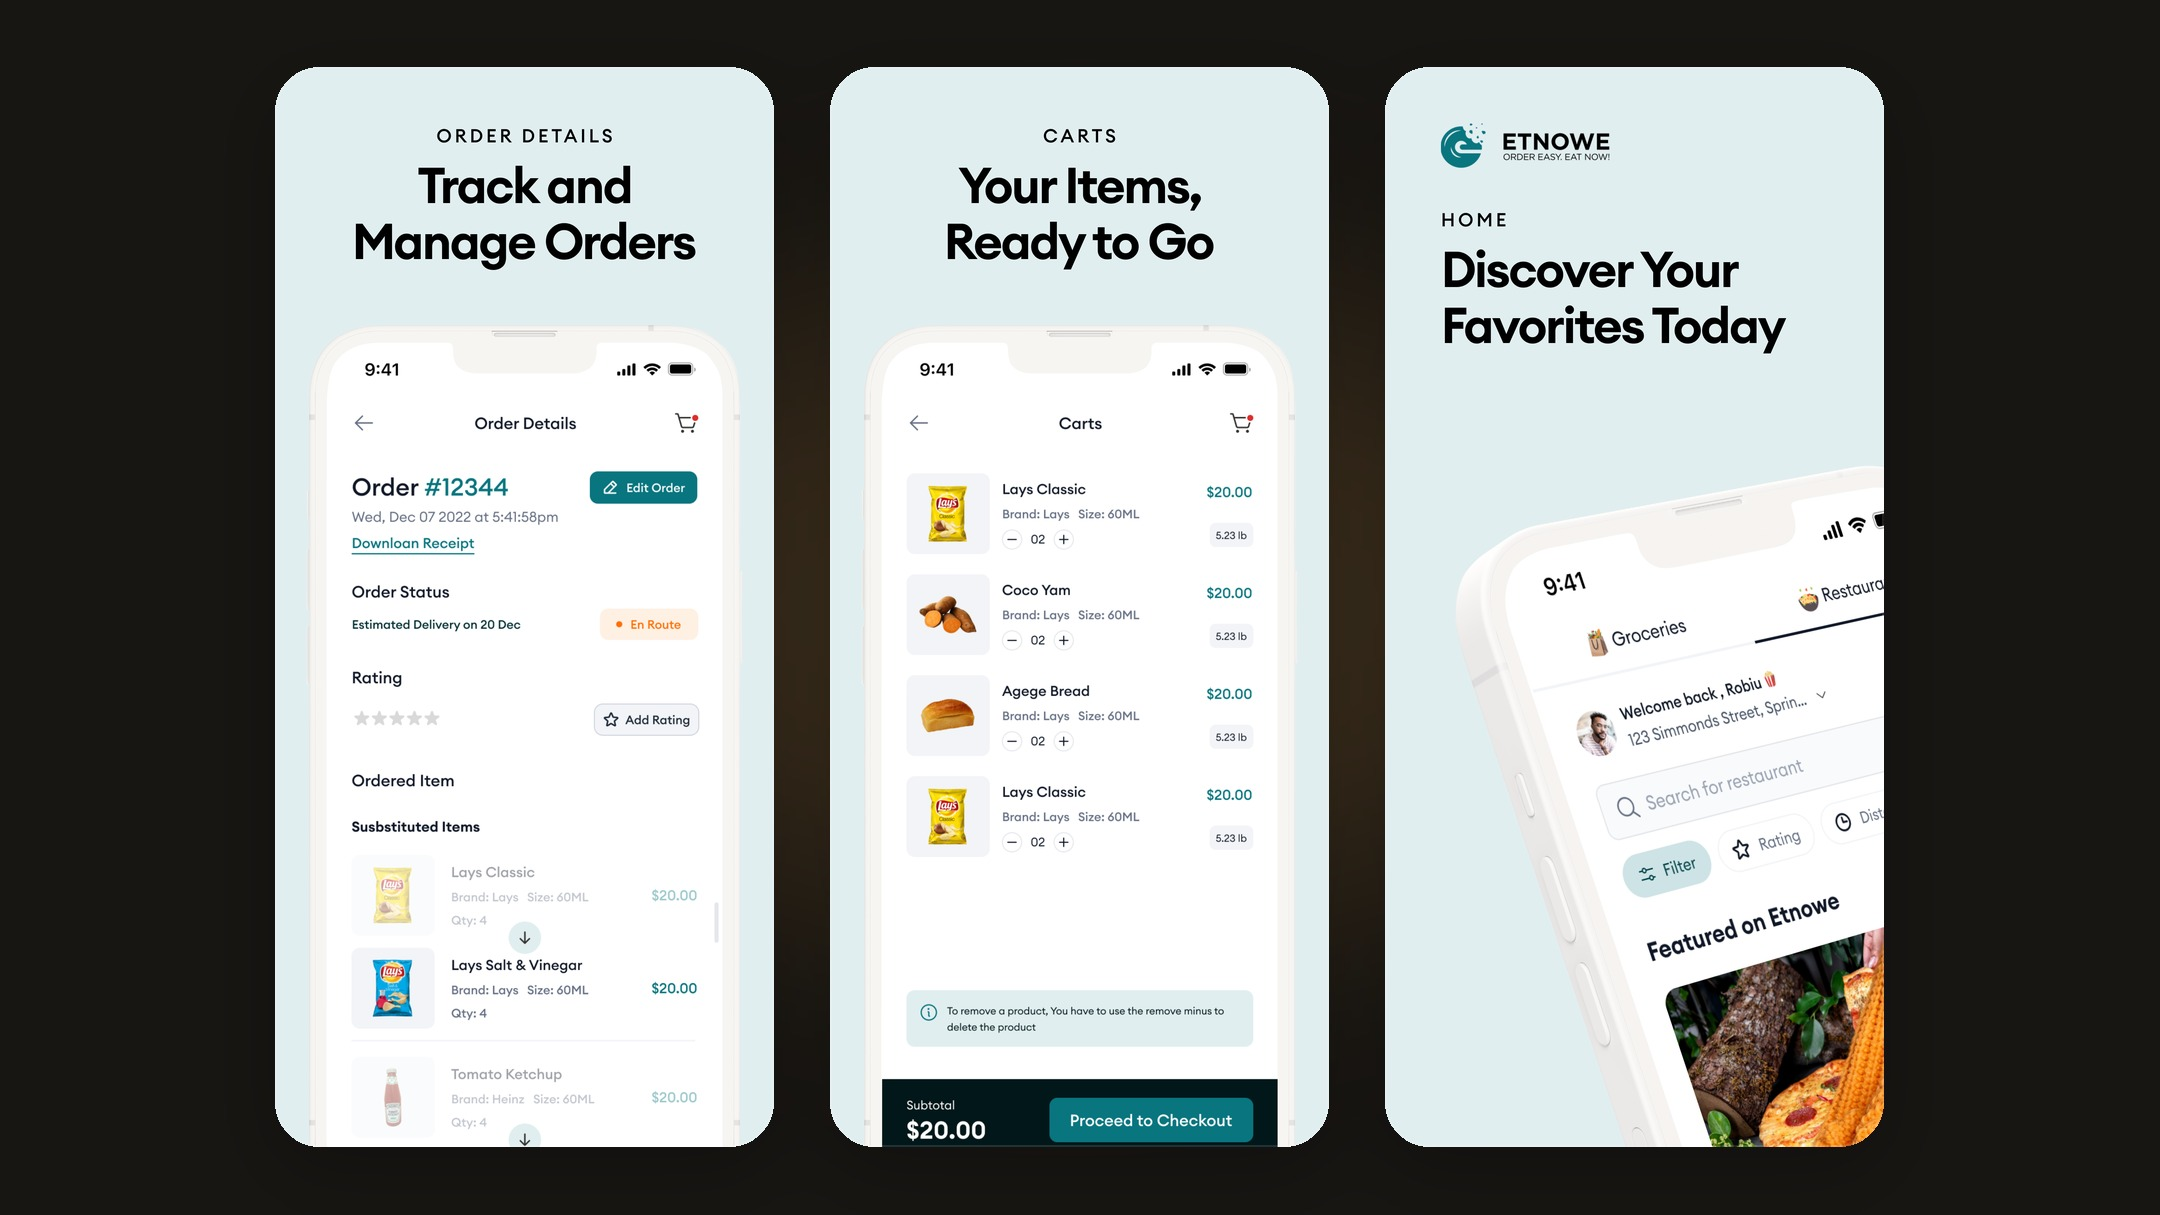
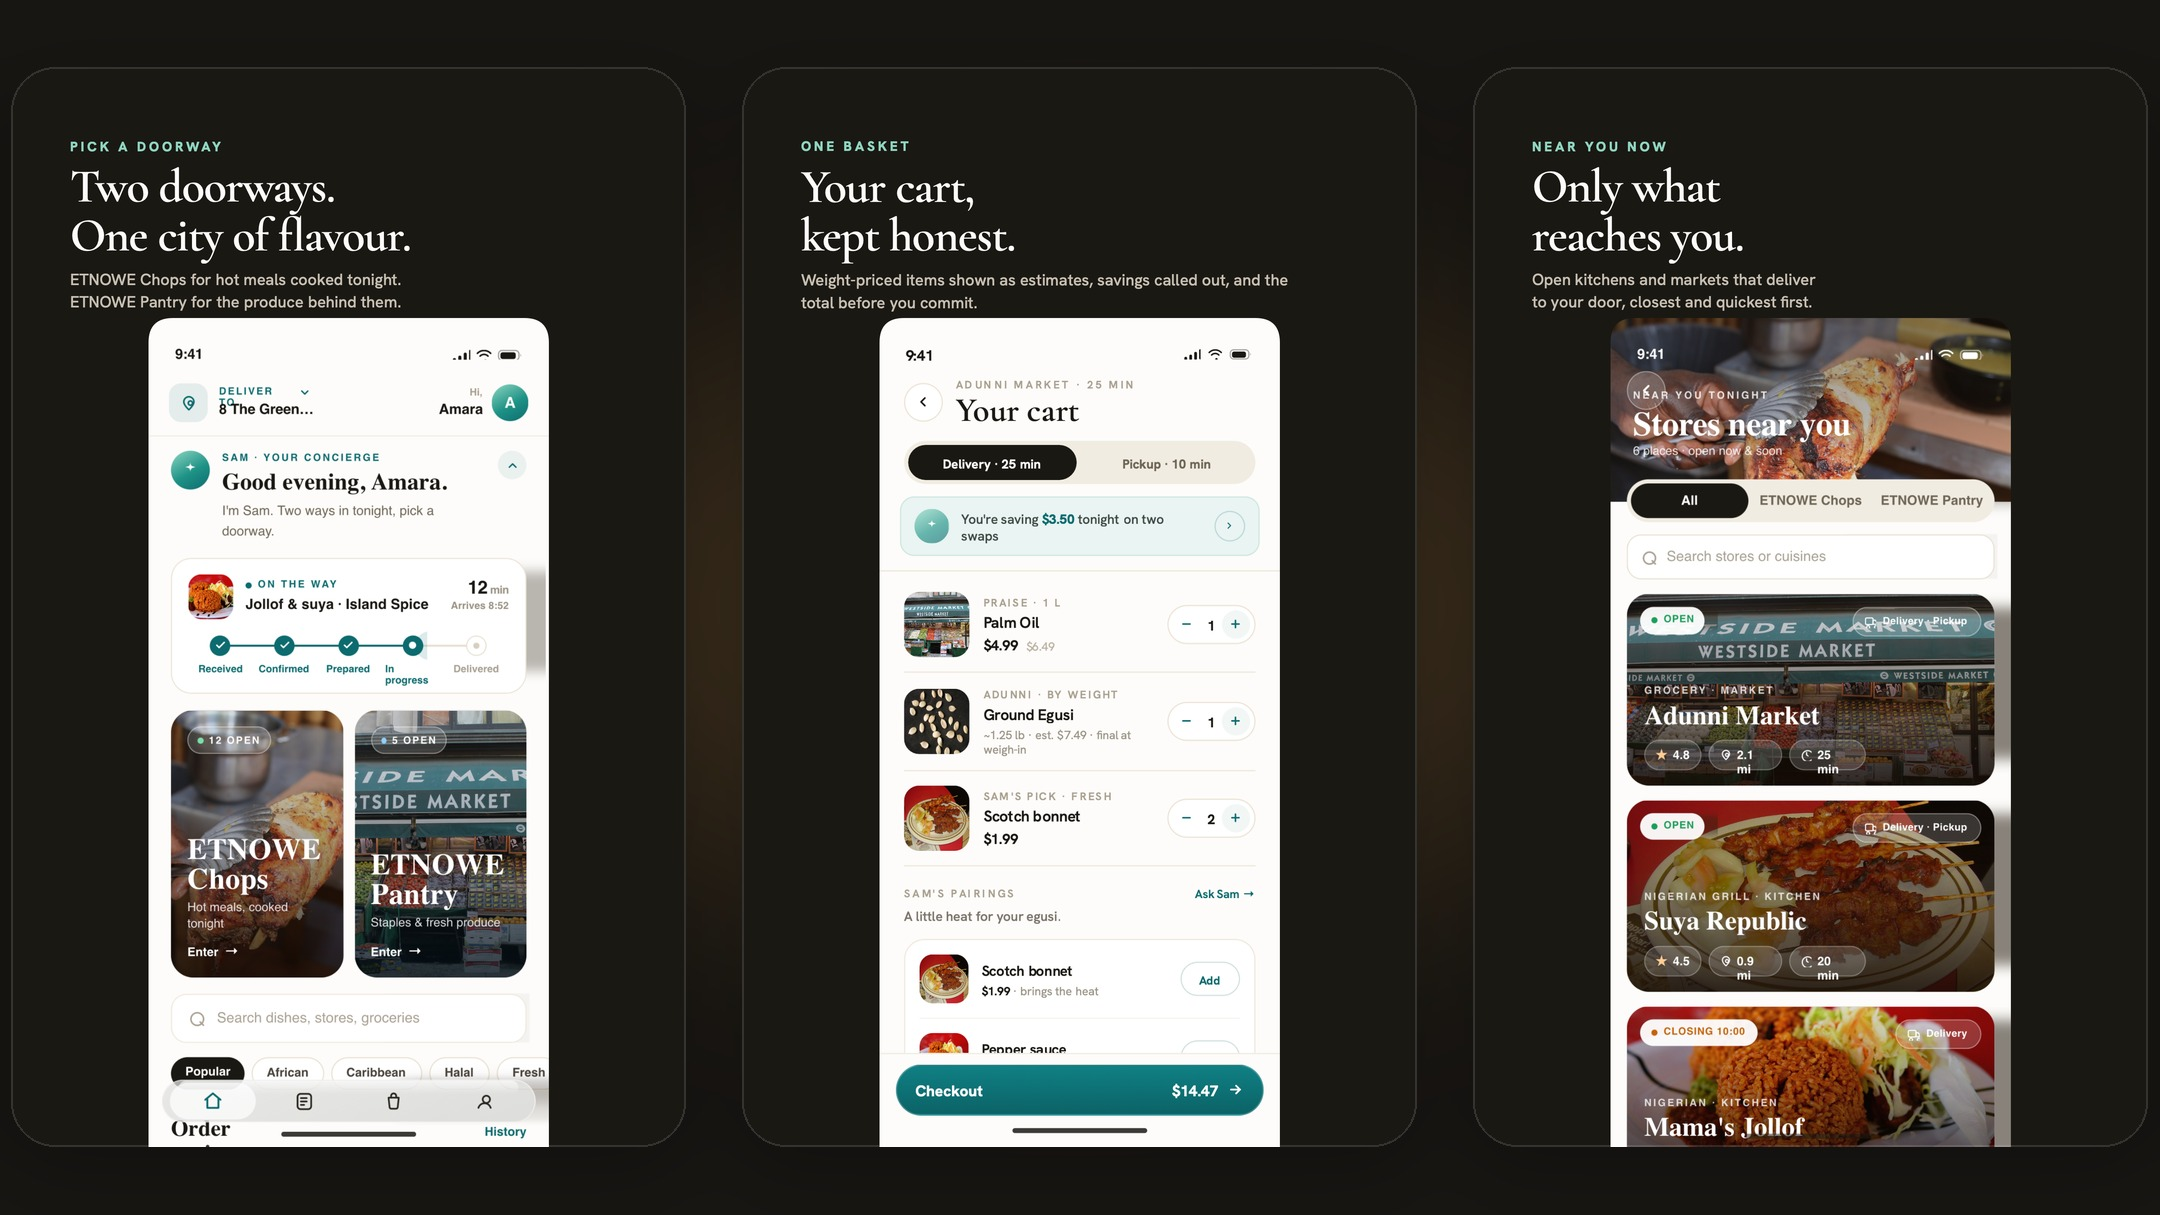
Add full-screen lightbox gallery for individual project screenshots
Project cards keep the composed 3-screen board as a thumbnail, but it's
now clickable and opens a full-screen lightbox carousel over the
individual screenshots (arrow keys, dots, click-outside to close).
Re-split the merged boards back into separate images for Etnowe, Sedl,
Buxe, Buxe Driver, Branch Locator, and Spend & Save, and regenerated
Etnowe's board since its Play Store listing had changed since the
original screenshots were captured.

diff --git a/components/ImageLightbox.tsx b/components/ImageLightbox.tsx
@@ -1,0 +1,143 @@
+"use client";
+
+import { useEffect, useState } from "react";
+import { createPortal } from "react-dom";
+import { AnimatePresence, motion } from "motion/react";
+import { X, ChevronLeft, ChevronRight } from "lucide-react";
+
+export default function ImageLightbox({
+  images,
+  alt,
+  open,
+  onClose,
+}: {
+  images: string[];
+  alt: string;
+  open: boolean;
+  onClose: () => void;
+}) {
+  const [index, setIndex] = useState(0);
+  const [mounted, setMounted] = useState(false);
+
+  useEffect(() => {
+    setMounted(true);
+  }, []);
+
+  useEffect(() => {
+    if (open) setIndex(0);
+  }, [open]);
+
+  useEffect(() => {
+    if (!open) return;
+
+    document.body.style.overflow = "hidden";
+
+    const onKey = (e: KeyboardEvent) => {
+      if (e.key === "Escape") onClose();
+      if (e.key === "ArrowLeft") {
+        setIndex((i) => (i - 1 + images.length) % images.length);
+      }
+      if (e.key === "ArrowRight") {
+        setIndex((i) => (i + 1) % images.length);
+      }
+    };
+    window.addEventListener("keydown", onKey);
+
+    return () => {
+      document.body.style.overflow = "";
+      window.removeEventListener("keydown", onKey);
+    };
+  }, [open, images.length, onClose]);
+
+  if (!mounted) return null;
+
+  return createPortal(
+    <AnimatePresence>
+      {open && (
+        <motion.div
+          initial={{ opacity: 0 }}
+          animate={{ opacity: 1 }}
+          exit={{ opacity: 0 }}
+          transition={{ duration: 0.2 }}
+          onClick={onClose}
+          className="fixed inset-0 z-[60] flex items-center justify-center bg-black/95"
+        >
+          <button
+            type="button"
+            onClick={(e) => {
+              e.stopPropagation();
+              onClose();
+            }}
+            aria-label="Close"
+            className="absolute right-4 top-4 z-10 flex h-10 w-10 items-center justify-center rounded-full bg-bg-elevated/90 text-text-secondary backdrop-blur-sm transition-colors duration-[var(--duration-fast)] hover:text-accent"
+          >
+            <X size={20} strokeWidth={1.75} />
+          </button>
+
+          {images.length > 1 && (
+            <button
+              type="button"
+              onClick={(e) => {
+                e.stopPropagation();
+                setIndex((i) => (i - 1 + images.length) % images.length);
+              }}
+              aria-label="Previous screenshot"
+              className="absolute left-3 top-1/2 z-10 flex h-10 w-10 -translate-y-1/2 items-center justify-center rounded-full bg-bg-elevated/90 text-text-secondary backdrop-blur-sm transition-colors duration-[var(--duration-fast)] hover:text-accent md:left-6"
+            >
+              <ChevronLeft size={20} strokeWidth={1.75} />
+            </button>
+          )}
+
+          <AnimatePresence mode="wait">
+            {/* eslint-disable-next-line @next/next/no-img-element */}
+            <motion.img
+              key={index}
+              src={images[index]}
+              alt={`${alt} screenshot ${index + 1} of ${images.length}`}
+              initial={{ opacity: 0, scale: 0.98 }}
+              animate={{ opacity: 1, scale: 1 }}
+              exit={{ opacity: 0, scale: 0.98 }}
+              transition={{ duration: 0.18 }}
+              onClick={(e) => e.stopPropagation()}
+              className="h-screen w-screen object-contain"
+            />
+          </AnimatePresence>
+
+          {images.length > 1 && (
+            <button
+              type="button"
+              onClick={(e) => {
+                e.stopPropagation();
+                setIndex((i) => (i + 1) % images.length);
+              }}
+              aria-label="Next screenshot"
+              className="absolute right-3 top-1/2 z-10 flex h-10 w-10 -translate-y-1/2 items-center justify-center rounded-full bg-bg-elevated/90 text-text-secondary backdrop-blur-sm transition-colors duration-[var(--duration-fast)] hover:text-accent md:right-6"
+            >
+              <ChevronRight size={20} strokeWidth={1.75} />
+            </button>
+          )}
+
+          {images.length > 1 && (
+            <div className="absolute bottom-6 left-1/2 flex -translate-x-1/2 gap-2">
+              {images.map((img, i) => (
+                <button
+                  key={img}
+                  type="button"
+                  onClick={(e) => {
+                    e.stopPropagation();
+                    setIndex(i);
+                  }}
+                  aria-label={`Go to screenshot ${i + 1}`}
+                  className={`h-1.5 w-1.5 rounded-full transition-colors duration-[var(--duration-fast)] ${
+                    i === index ? "bg-accent" : "bg-white/40 hover:bg-white/70"
+                  }`}
+                />
+              ))}
+            </div>
+          )}
+        </motion.div>
+      )}
+    </AnimatePresence>,
+    document.body
+  );
+}

diff --git a/content/projects.ts b/content/projects.ts
@@ -14,6 +14,7 @@ export interface Project {
   blurb: string;
   tags: string[];
   image?: string;
+  images?: string[];
   links?: {
     website?: string;
     appStore?: string;
@@ -56,6 +57,11 @@ export const projects: Project[] = [
       "An African & Caribbean grocery and restaurant delivery platform: customer and merchant mobile apps for browsing, ordering, and fulfilling orders on the go. I fixed bugs and built order placement and refund features across the stack.",
     tags: ["React Native"],
     image: "/projects/etnowe.jpg",
+    images: [
+      "/projects/etnowe-1.jpg",
+      "/projects/etnowe-2.jpg",
+      "/projects/etnowe-3.jpg",
+    ],
     links: {
       appStore: "https://apps.apple.com/us/app/etnowe-grocery-delivery/id1531814543",
       playStore:
@@ -118,6 +124,11 @@ export const projects: Project[] = [
       "A ride-hailing app for riders: book trips, track drivers live, pay in-app, and share trip status with trusted contacts. Live on the App Store.",
     tags: ["Expo", "Firebase", "Google Maps"],
     image: "/projects/buxe.jpg",
+    images: [
+      "/projects/buxe-1.jpg",
+      "/projects/buxe-2.jpg",
+      "/projects/buxe-3.jpg",
+    ],
     links: {
       appStore: "https://apps.apple.com/ng/app/buxe/id6749169171",
     },
@@ -133,6 +144,11 @@ export const projects: Project[] = [
       "The driver-side app for Buxe: accepting trips, live navigation, and earnings tracking. Live on the App Store.",
     tags: ["Expo", "Firebase", "Google Maps"],
     image: "/projects/buxe-driver.jpg",
+    images: [
+      "/projects/buxe-driver-1.jpg",
+      "/projects/buxe-driver-2.jpg",
+      "/projects/buxe-driver-3.jpg",
+    ],
     links: {
       appStore: "https://apps.apple.com/ng/app/buxe-driver/id6753883343",
     },
@@ -148,6 +164,11 @@ export const projects: Project[] = [
       "A blockchain-based money transfer app: converts currency to USDC for near-instant, low-fee wallet-to-wallet transfers, with facial recognition and two-factor security. Live on iOS and Android.",
     tags: ["React Native", "Expo", "Firebase"],
     image: "/projects/sedl.jpg",
+    images: [
+      "/projects/sedl-1.jpg",
+      "/projects/sedl-2.jpg",
+      "/projects/sedl-3.jpg",
+    ],
     links: {
       website: "https://sedlapp.com/",
       appStore: "https://apps.apple.com/ng/app/sedl-app/id6744427872",
@@ -194,6 +215,11 @@ export const projects: Project[] = [
       "A branch, ATM, agent, and affluent lounge locator for the Stanbic IBTC mobile app: real-time distance and availability status, with quick actions like scheduling a visit or getting directions.",
     tags: ["React Native", "Google Maps SDK"],
     image: "/projects/branch-locator.jpg",
+    images: [
+      "/projects/branch-locator-1.jpg",
+      "/projects/branch-locator-2.jpg",
+      "/projects/branch-locator-3.jpg",
+    ],
     links: {
       appStore: "https://apps.apple.com/ng/app/stanbic-ibtc-mobile-3-0/id6477922208",
       playStore: "https://play.google.com/store/apps/details?id=com.StanbicMobile",
@@ -210,6 +236,11 @@ export const projects: Project[] = [
       "An automated micro-savings feature for the Stanbic IBTC mobile app: sets aside a percentage of every transaction into a savings balance, with an adjustable rate and full transaction history.",
     tags: ["React Native"],
     image: "/projects/spend-and-save.jpg",
+    images: [
+      "/projects/spend-and-save-1.jpg",
+      "/projects/spend-and-save-2.jpg",
+      "/projects/spend-and-save-3.jpg",
+    ],
     links: {
       appStore: "https://apps.apple.com/ng/app/stanbic-ibtc-mobile-3-0/id6477922208",
       playStore: "https://play.google.com/store/apps/details?id=com.StanbicMobile",

diff --git a/components/ProjectImage.tsx b/components/ProjectImage.tsx
@@ -1,0 +1,55 @@
+"use client";
+
+import { useState } from "react";
+import { Expand } from "lucide-react";
+import ImageLightbox from "./ImageLightbox";
+
+export default function ProjectImage({
+  image,
+  images,
+  alt,
+}: {
+  image?: string;
+  images?: string[];
+  alt: string;
+}) {
+  const [open, setOpen] = useState(false);
+  const clickable = !!images && images.length > 0;
+  const src = image ?? images?.[0];
+
+  if (!src) return null;
+
+  return (
+    <>
+      <button
+        type="button"
+        onClick={() => clickable && setOpen(true)}
+        aria-label={clickable ? `View ${alt} screenshots` : alt}
+        className={`group/image relative block h-full w-full ${
+          clickable ? "cursor-pointer" : "cursor-default"
+        }`}
+      >
+        {/* eslint-disable-next-line @next/next/no-img-element */}
+        <img
+          src={src}
+          alt={alt}
+          className="h-full w-full object-cover transition-transform duration-[var(--duration-base)] ease-[var(--ease-out)] group-hover:scale-105"
+        />
+        {clickable && (
+          <span className="absolute bottom-3 right-3 flex h-8 w-8 items-center justify-center rounded-full bg-bg-elevated/80 text-text-secondary opacity-0 backdrop-blur-sm transition-opacity duration-[var(--duration-fast)] group-hover/image:opacity-100">
+            <Expand size={14} strokeWidth={1.75} />
+          </span>
+        )}
+      </button>
+
+      {clickable && (
+        <ImageLightbox
+          images={images!}
+          alt={alt}
+          open={open}
+          onClose={() => setOpen(false)}
+        />
+      )}
+    </>
+  );
+}

diff --git a/components/ProjectCard.tsx b/components/ProjectCard.tsx
@@ -1,5 +1,6 @@
 import { Globe, Smartphone, LayoutDashboard, Store, GitFork, FolderGit2 } from "lucide-react";
 import type { Project, ProjectBadge } from "@/content/projects";
+import ProjectImage from "./ProjectImage";
 
 const badgeCopy: Record<ProjectBadge, string> = {
   development: "In development",
@@ -20,13 +21,12 @@ export default function ProjectCard({ project }: { project: Project }) {
 
   return (
     <div className="group h-full overflow-hidden rounded-[var(--radius-lg)] border border-border bg-bg-elevated shadow-[var(--shadow-card)] transition-all duration-[var(--duration-base)] hover:-translate-y-1 hover:[border-color:var(--accent-border)] hover:shadow-[var(--shadow-card-hover)]">
-      <div className="relative aspect-video w-full bg-bg-subtle">
-        {project.image ? (
-          // eslint-disable-next-line @next/next/no-img-element
-          <img
-            src={project.image}
+      <div className="relative aspect-video w-full overflow-hidden bg-bg-subtle">
+        {project.image || (project.images && project.images.length > 0) ? (
+          <ProjectImage
+            image={project.image}
+            images={project.images}
             alt={project.title}
-            className="h-full w-full object-cover"
           />
         ) : (
           <div className="flex h-full w-full items-center justify-center">
